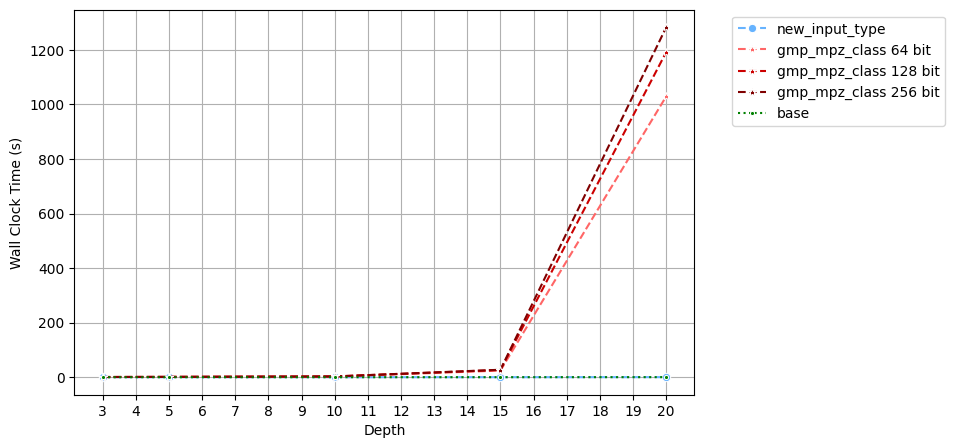
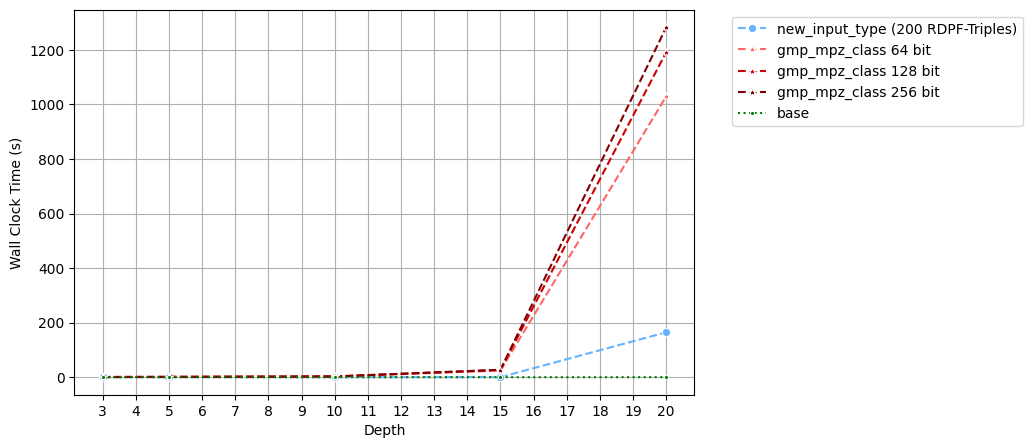
nit on 200 triples

diff --git a/plots/code/preproc/preproc_storage_requirements.py b/plots/code/preproc/preproc_storage_requirements.py
@@ -10,18 +10,17 @@ x3 = 10
 x4 = 15
 x5 = 20
 
+df0 = pd.DataFrame({
+    "x":[x1,x2,x3,x4, x5],
+    "y":[1.9,2.007,2.01,2.03,14.093],
+    "Approach": "new_input_type (200 RDPF-Triples)"
+})
+
 y1 = 1.579
 y2 = 1.6966
 y3 = 1.7308
 y4 = 1.8307
 y5 = 3.58326
-
-
-df0 = pd.DataFrame({
-    "x":[x1,x2,x3,x4, x5],
-    "y":[y1,y2,y3,y4, y5],
-    "Approach": "new_input_type"
-})
 
 df_base = pd.DataFrame({
     "x":[x1,x2,x3,x4, x5],

diff --git a/plots/code/preproc/aes_ops_preproc.py b/plots/code/preproc/aes_ops_preproc.py
@@ -35,8 +35,8 @@ df_mpz_256 = pd.DataFrame({
 
 df_nit = pd.DataFrame({
     "x": [x1,x2,x3,x4,x5],
-    "y": [2100,9300,306900,9830100,314572500],
-    "Approach": "new_input_type"
+    "y": [8100,12300,506900,39320400,1258290000],
+    "Approach": "new_input_type (200 RDPF-Triples)"
 })
 
 sns.lineplot(data=df_mpz_64, x="x", y="y", hue="Approach", marker="*", linestyle="dashed", palette=["#ff6666"])

diff --git a/plots/code/preproc/wall_clock_time_preproc.py b/plots/code/preproc/wall_clock_time_preproc.py
@@ -12,8 +12,8 @@ x5 = 20
 
 df_new_input_type = pd.DataFrame({
     "x":[x1,x2,x3,x4, x5],
-    "y":[0.1,0.1,0.124,0.225,0.421],
-    "Approach": "new_input_type"
+    "y":[0.1,0.215,0.324,0.521,164.704],
+    "Approach": "new_input_type (200 RDPF-Triples)"
 })
 
 df_base = pd.DataFrame({
